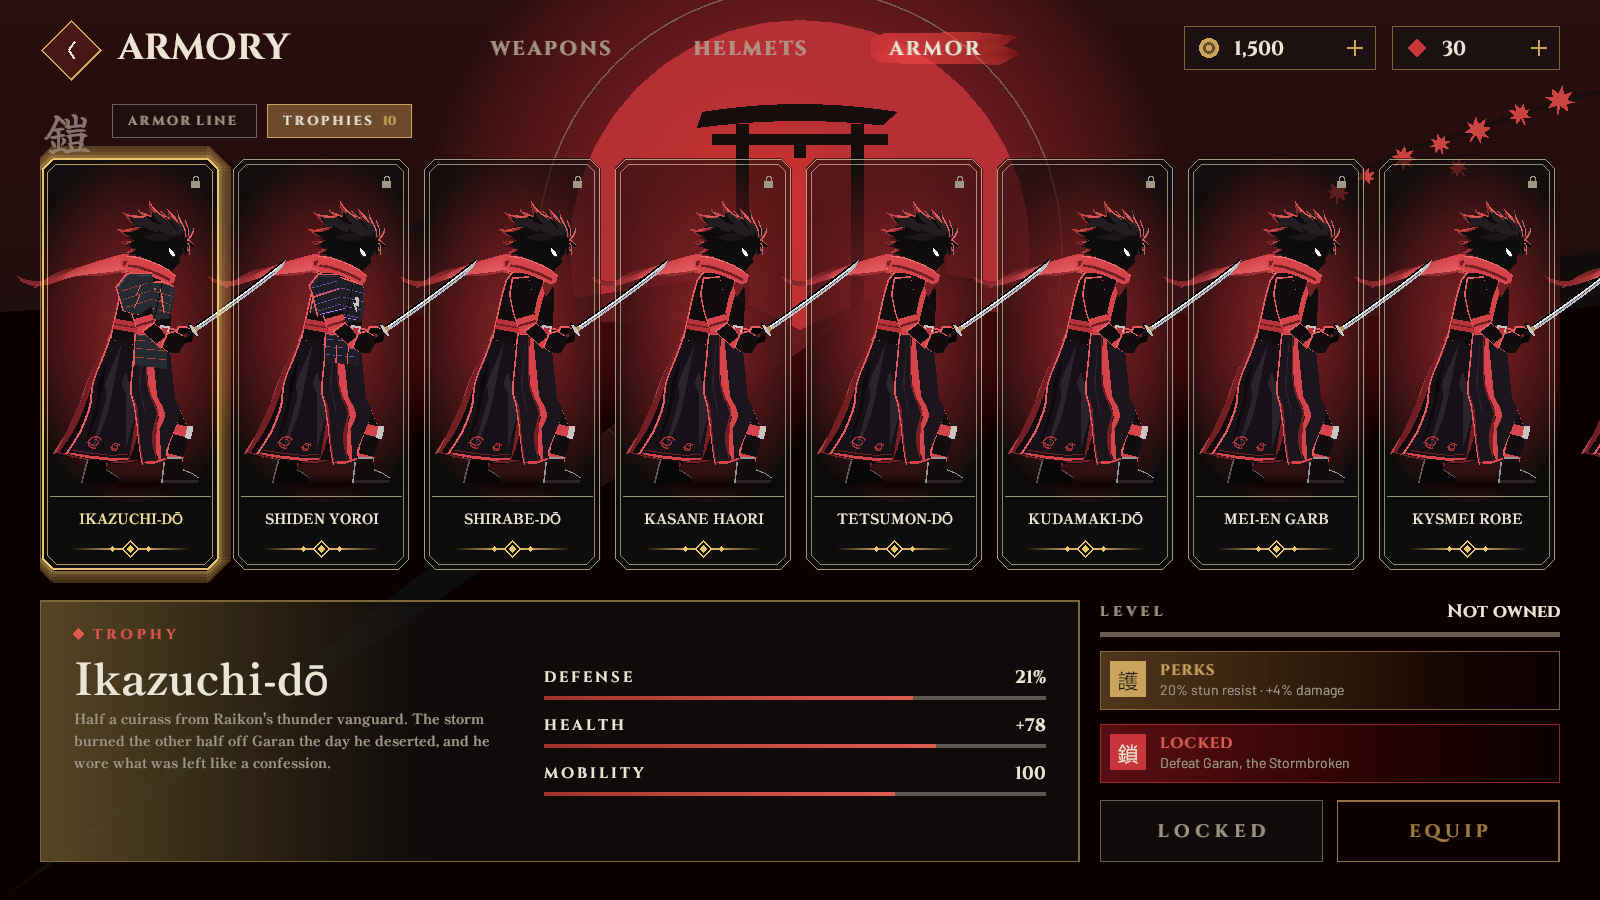
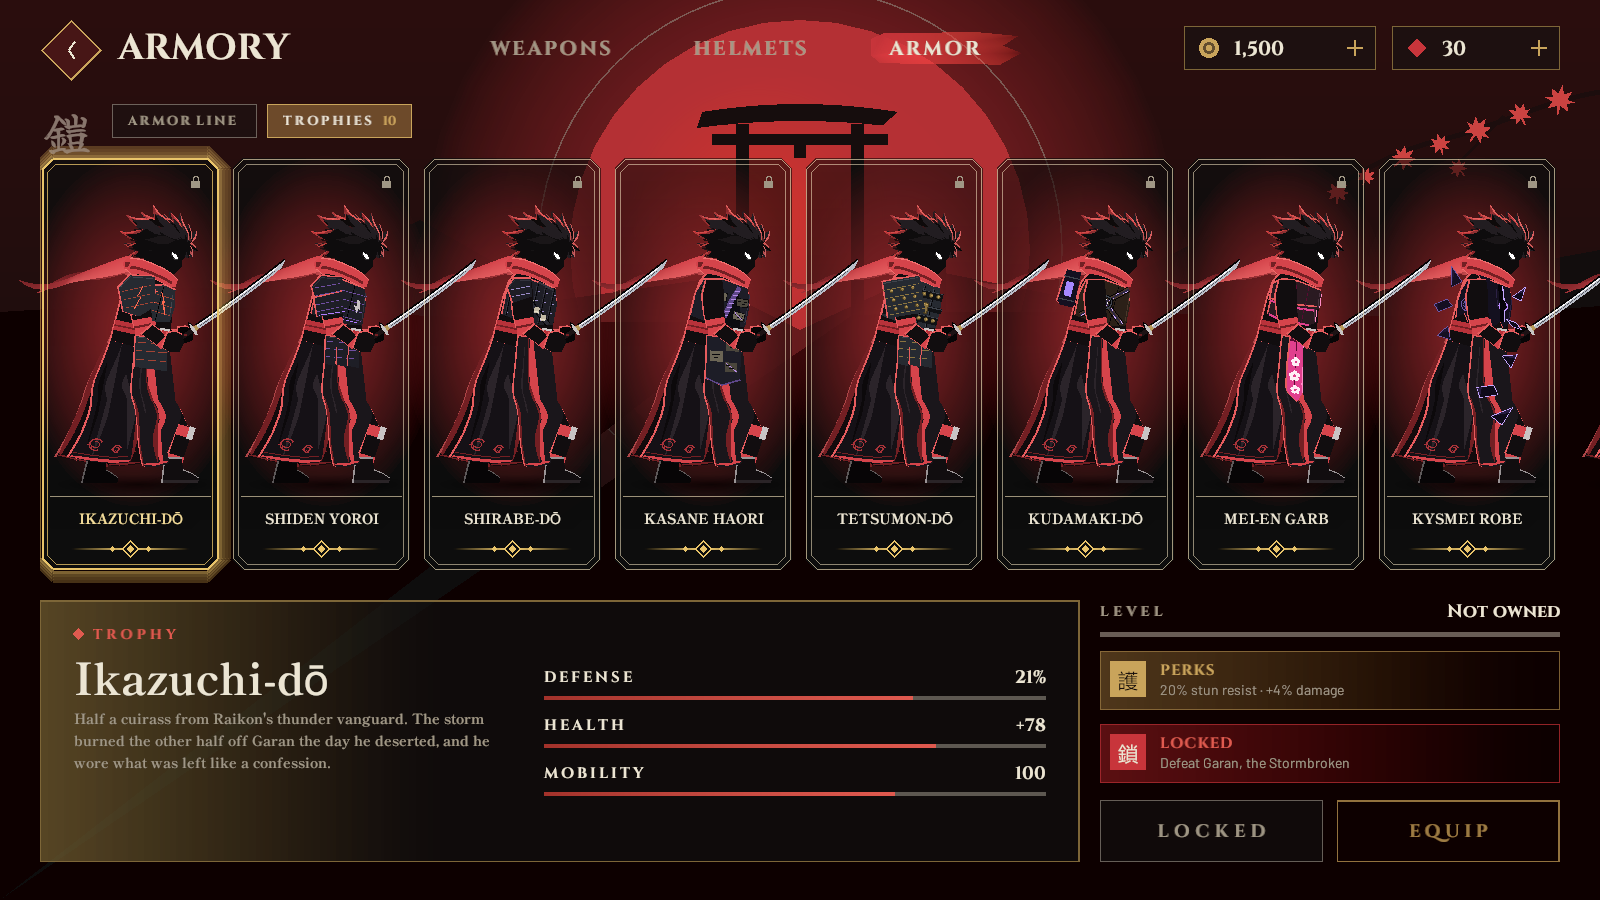
SAN-90: Armory review images re-rendered, trophies each with their own look, side-by-side sheets

diff --git a/Assets/Kage/Tests/PlayMode/GearArmoryScreenshots.cs b/Assets/Kage/Tests/PlayMode/GearArmoryScreenshots.cs
@@ -92,6 +92,13 @@ namespace Kage.Tests
             yield return Shot("armors_line");
             yield return Show(ArmoryTab.Armor, "ikazuchi_do", ArmorLine.Trophy);
             yield return Shot("armors_trophy");
+            // the rest of the trophies (SAN-90 rework: each has its own look), and the Mugen Armor's ring on its card
+            yield return Show(ArmoryTab.Armor, "kurokumo_yoroi", ArmorLine.Trophy);
+            yield return Shot("armors_trophy_end");
+            yield return Show(ArmoryTab.Armor, "shinsei_yoroi", ArmorLine.Trophy);
+            yield return Shot("armors_trophy_shinsei");
+            yield return Show(ArmoryTab.Armor, "mugen_yoroi", ArmorLine.Line);
+            yield return Shot("armors_line_mugen");
 
             // more of the families on the preview
             foreach (var id in new[] { "tsubame", "shizuka", "mizuchi", "yamigama", "iwakudaki" })
